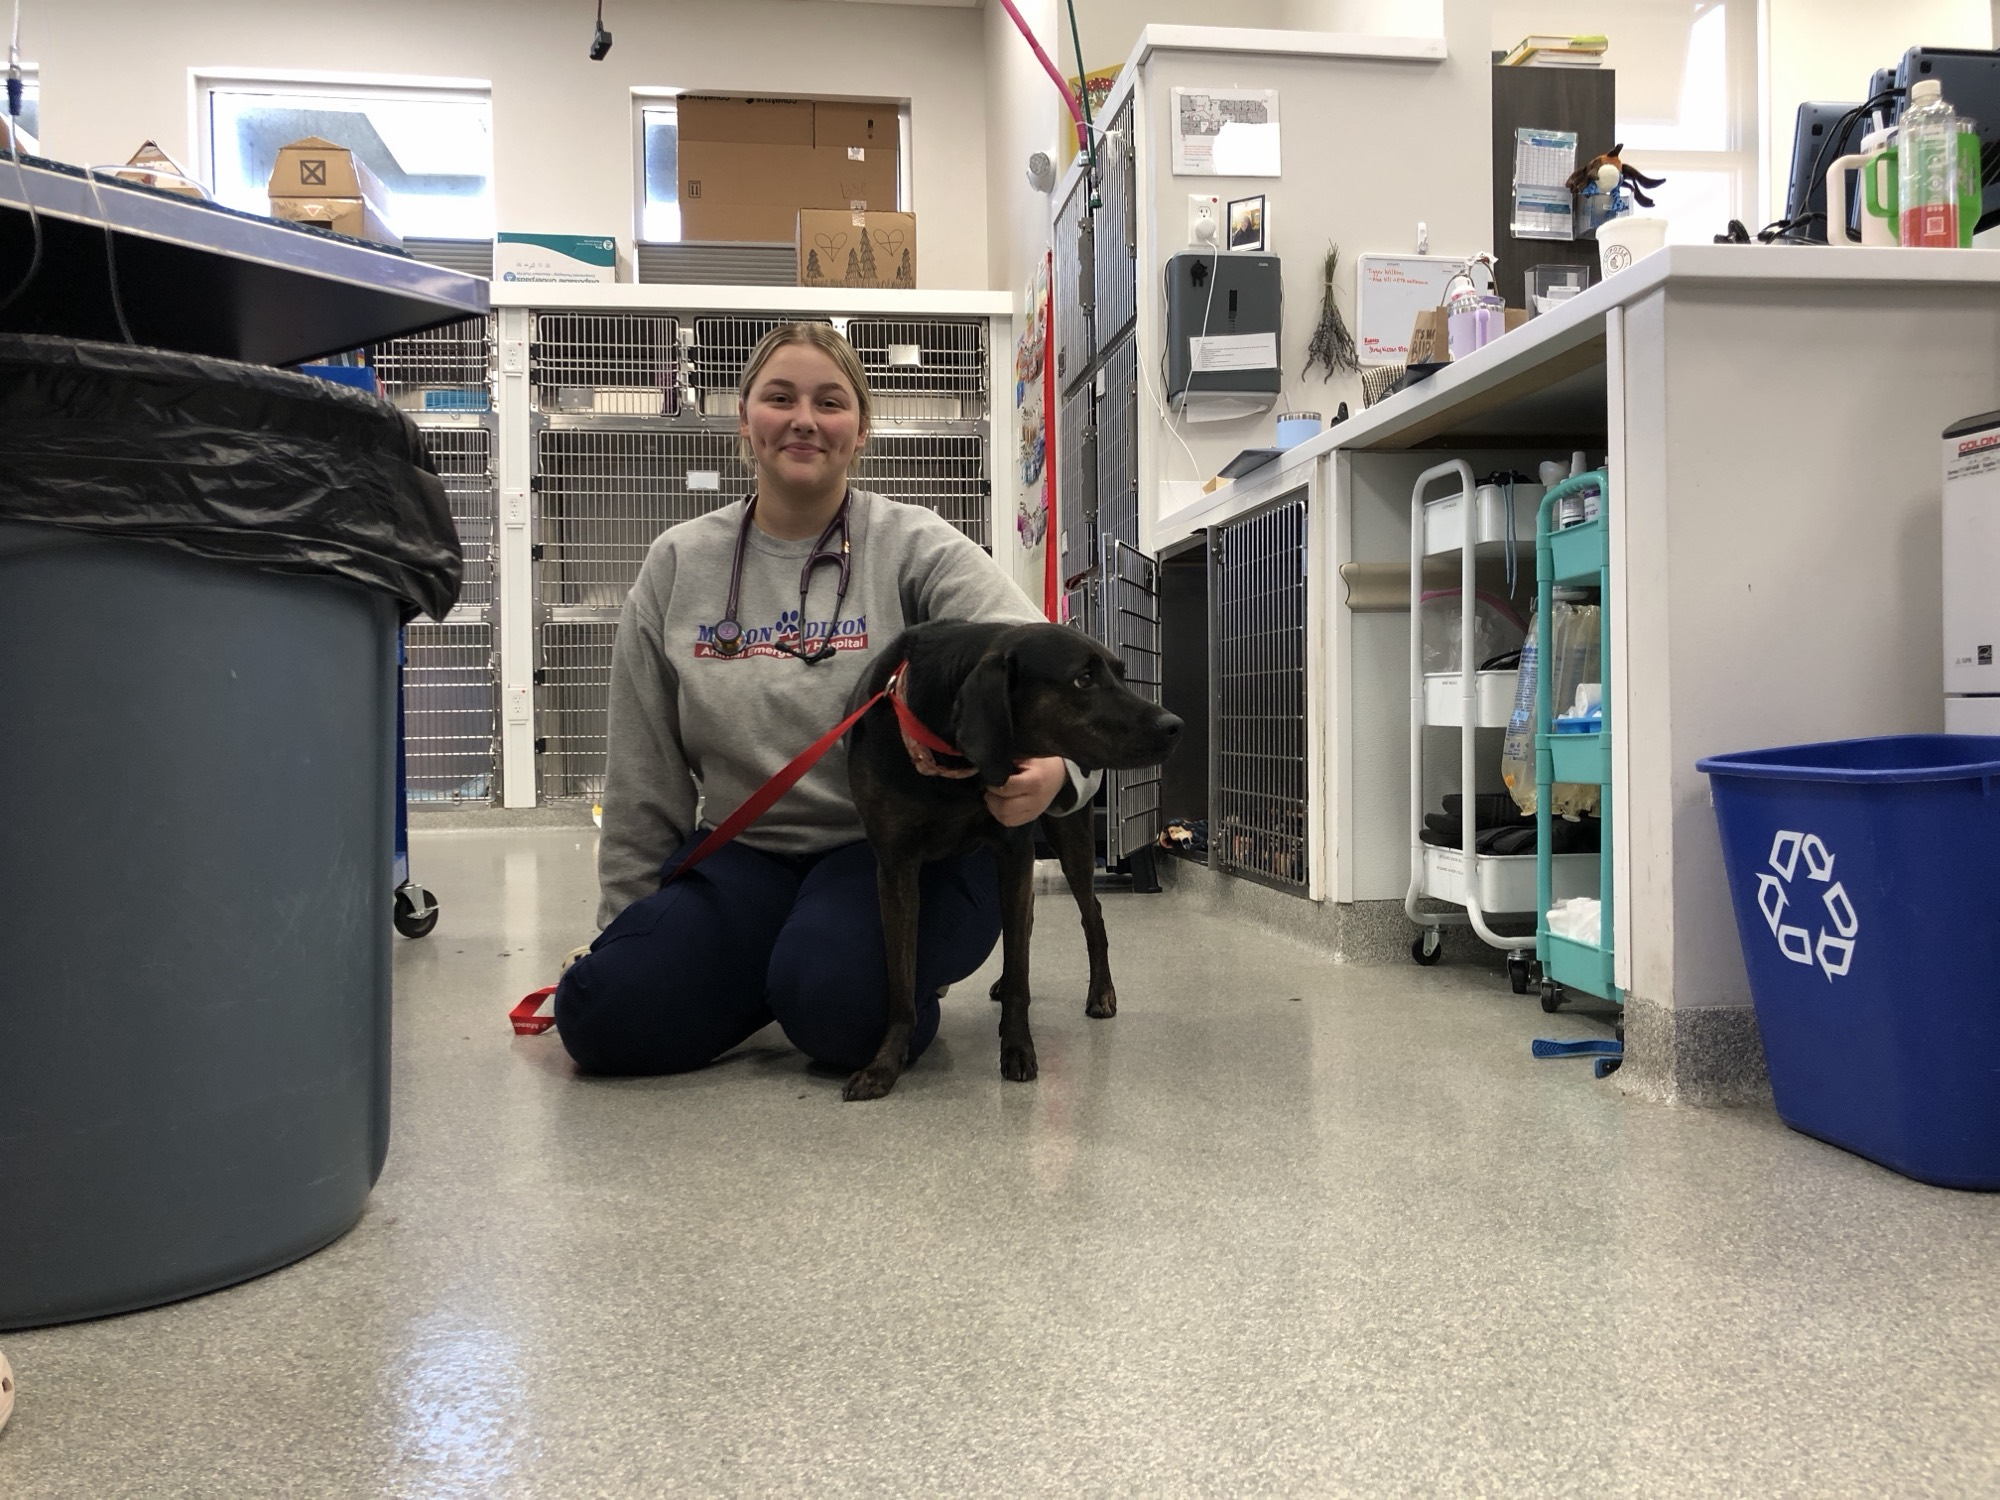
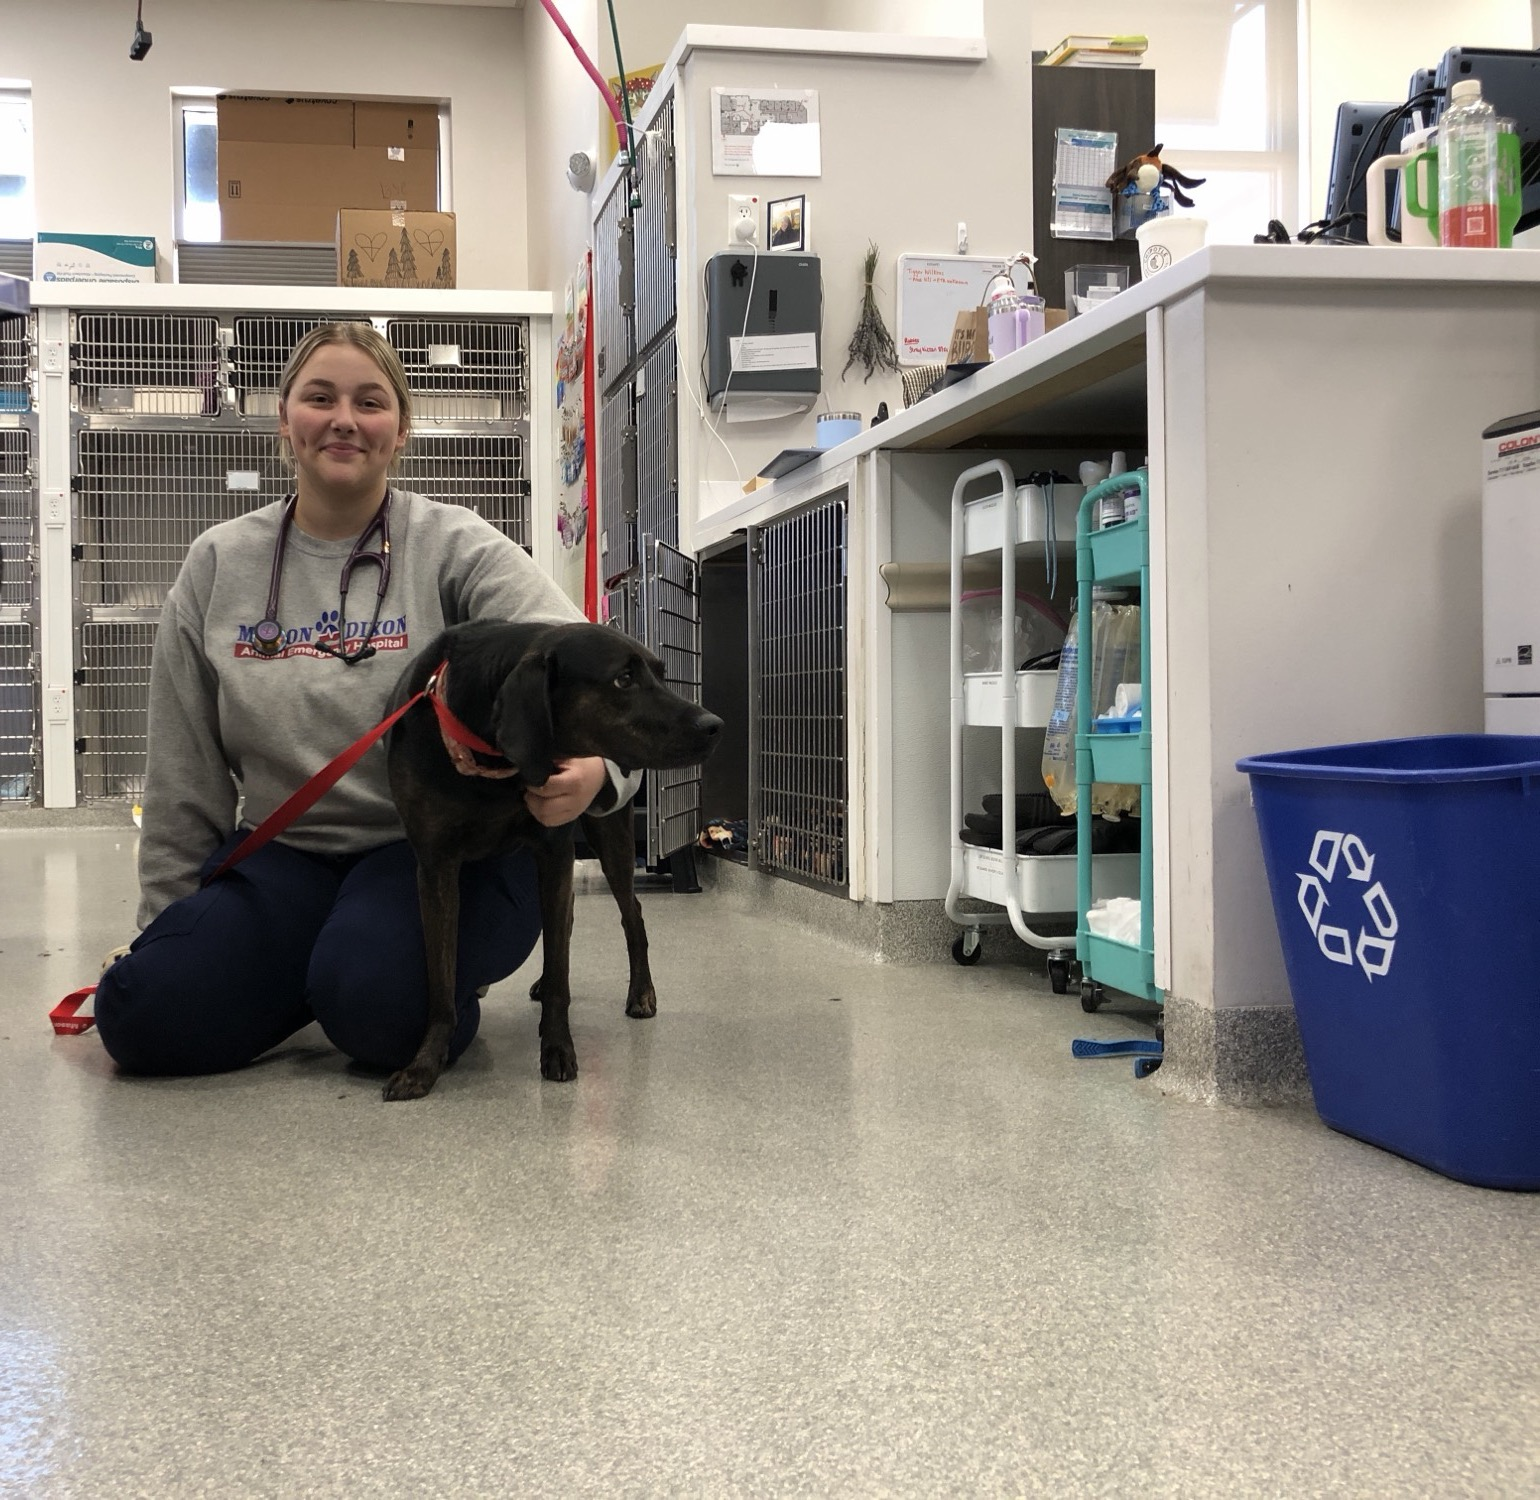
Communication band: larger photo, crop out trash can

diff --git a/styles.css b/styles.css
@@ -168,8 +168,8 @@ svg{flex-shrink:0}
 }
 
 /* ---------- X-ray band ---------- */
-.xray-band{position:relative;height:clamp(220px,20vw,290px);overflow:hidden;background:var(--navy-900)}
-.xray-band img{position:absolute;right:0;top:0;width:min(60%,1700px);height:100%;object-fit:cover;object-position:42% 26%;-webkit-mask-image:linear-gradient(to right,transparent 0%,#000 40%);mask-image:linear-gradient(to right,transparent 0%,#000 40%)}
+.xray-band{position:relative;height:clamp(300px,28vw,440px);overflow:hidden;background:var(--navy-900)}
+.xray-band img{position:absolute;right:0;top:0;width:min(60%,1700px);height:100%;object-fit:cover;object-position:30% 30%;-webkit-mask-image:linear-gradient(to right,transparent 0%,#000 40%);mask-image:linear-gradient(to right,transparent 0%,#000 40%)}
 .xray-caption{position:absolute;inset:0;z-index:1;display:flex;align-items:center;color:#fff}
 .xray-caption p{max-width:600px;font-family:var(--font-display);font-weight:600;font-size:clamp(18.4px,1.5vw,24px);letter-spacing:-.02em;line-height:1.35}
 @media (max-width:767px){
@@ -297,7 +297,7 @@ svg{flex-shrink:0}
 
 @media (max-width:767px){.hero__bg img{object-position:72% 45%}}
 
-@media (min-width:2000px){.hero{min-height:15vw}.xray-band{height:clamp(290px,9vw,460px)}}
+@media (min-width:2000px){.hero{min-height:15vw}.xray-band{height:clamp(440px,14vw,620px)}}
 .newgrad > *{min-width:0}
 @media (max-width:767px){.btn{white-space:normal;text-align:center;line-height:1.25}}
 .people__btn{margin-top:var(--s6)}
@@ -317,7 +317,7 @@ svg{flex-shrink:0}
 .work .perk p{color:var(--on-dark-muted)}
 @media (max-width:767px){
   .xray-band{height:auto}
-  .xray-band img{position:relative;display:block;width:100%;height:280px;object-position:42% 30%;-webkit-mask-image:none;mask-image:none}
+  .xray-band img{position:relative;display:block;width:100%;height:320px;object-position:25% 35%;-webkit-mask-image:none;mask-image:none}
   .xray-band::after{display:none}
   .xray-caption{position:relative;inset:auto;padding:var(--s6) 0}
 }

diff --git a/index.html b/index.html
@@ -10,7 +10,7 @@
 <link rel="preconnect" href="https://fonts.gstatic.com" crossorigin>
 <link rel="stylesheet" href="https://fonts.googleapis.com/css2?family=Be+Vietnam+Pro:wght@500;600;700;800&family=Inter:ital,wght@0,400;0,500;0,600;1,400&display=swap">
 <link rel="stylesheet" href="header.css?v=2">
-<link rel="stylesheet" href="styles.css?v=36">
+<link rel="stylesheet" href="styles.css?v=37">
 <script>document.documentElement.classList.add('js');</script>
 </head>
 <body>
@@ -468,7 +468,7 @@
 
 <!-- ============ X-RAY BAND ============ -->
 <section class="xray-band band-slim" aria-label="Communication with pet owners">
-  <img src="assets/team-treatment.jpg" alt="A Mason Dixon team member kneeling with a dog patient in the treatment area" loading="lazy" width="2000" height="1500">
+  <img src="assets/team-treatment.jpg?v=2" alt="A Mason Dixon team member kneeling with a dog patient in the treatment area" loading="lazy" width="1540" height="1500">
   <div class="xray-caption">
     <div class="container">
       <p>We communicate clearly with pet owners throughout treatment and coordinate with primary care veterinarians when follow-up care is needed.</p>
